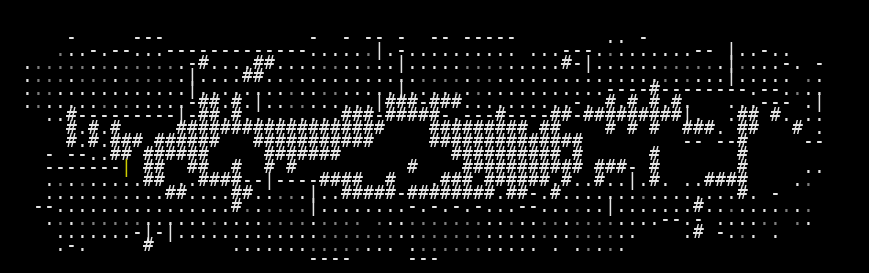
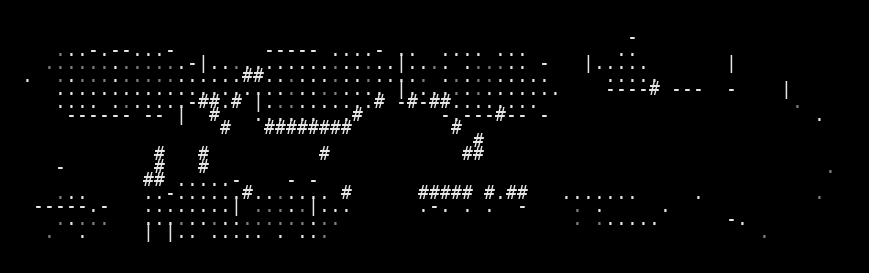
some updates

diff --git a/src/model.py b/src/model.py
@@ -1284,6 +1284,7 @@ def vae_loss(
     H, W = glyph_chars.shape[1], glyph_chars.shape[2]
     fg_mask = (glyph_chars != ord(' '))  # [B, H, W]
     ooc_t = fg_mask.float().unsqueeze(1)  # [B, 1, H, W]
+    masked_num = fg_mask.sum(dim=[1, 2]).clamp(min=1)
     glyph_chars_ce = torch.clamp(glyph_chars - 32, 0, CHAR_DIM - 1)  # CE targets
     
     # Occupancy focal loss
@@ -1295,18 +1296,17 @@ def vae_loss(
     alpha_neg = torch.as_tensor(1.0 - focal_loss_alpha, device=occupy_logits.device, dtype=occupy_logits.dtype)
     alpha_t = torch.where(ooc_hw > 0.5, alpha_pos, alpha_neg)
     focal_weight = alpha_t * (1.0 - p_t).pow(focal_loss_gamma)
-    focal_loss_per_sample = (focal_weight * occ_bce).sum(dim=(1, 2))  # [B]
+    focal_loss_per_sample = (focal_weight * occ_bce).mean(dim=(1, 2)) # [B]
 
     # CE losses (masked by foreground)
     char_loss_per_sample = F.cross_entropy(char_logits, glyph_chars_ce, reduction='none')  # [B, H, W]
     masked_char_loss_per_sample = char_loss_per_sample * fg_mask.float()
     color_loss_per_sample = F.cross_entropy(color_logits, glyph_colors, reduction='none')  # [B, H, W]
     masked_color_loss_per_sample = color_loss_per_sample * fg_mask.float()
-    masked_num = fg_mask.sum(dim=[1, 2]).clamp(min=1)
 
     # Sum over spatial dimensions for each sample
-    masked_char_loss_per_sample = masked_char_loss_per_sample.sum(dim=[1, 2]) / masked_num * H * W  # [B]
-    masked_color_loss_per_sample = masked_color_loss_per_sample.sum(dim=[1, 2]) / masked_num * H * W  # [B]
+    masked_char_loss_per_sample = masked_char_loss_per_sample.sum(dim=[1, 2]) / masked_num  # [B]
+    masked_color_loss_per_sample = masked_color_loss_per_sample.sum(dim=[1, 2]) / masked_num  # [B]
 
     # Average over valid samples only
     raw_losses['occupy'] = focal_loss_per_sample[valid_screen].mean()  # Average over valid samples

diff --git a/vae_analysis/test_recon_comparison.md b/vae_analysis/test_recon_comparison.md
@@ -1,6 +1,6 @@
 # VAE Reconstruction Comparison
 
-_Generated: 2025-08-11T17:48:46_
+_Generated: 2025-08-11T21:11:51_
 
 ## Sample 0
 
@@ -9,8 +9,8 @@ _Generated: 2025-08-11T17:48:46_
 | ![orig 0](images/sample_000_orig.png) | ![recon 0](images/sample_000_recon.png) |
 
 
- Sample 1 Accuracy:   Character accuracy: 0.360 (597/1659 cells)
-   Color accuracy: 0.369 (612/1659 cells)
+ Sample 1 Accuracy:   Character accuracy: 0.869 (1442/1659 cells)
+   Color accuracy: 0.869 (1442/1659 cells)
 
 ================================================================================
 ## Sample 1
@@ -20,8 +20,8 @@ _Generated: 2025-08-11T17:48:46_
 | ![orig 1](images/sample_001_orig.png) | ![recon 1](images/sample_001_recon.png) |
 
 
- Sample 2 Accuracy:   Character accuracy: 0.481 (798/1659 cells)
-   Color accuracy: 0.483 (801/1659 cells)
+ Sample 2 Accuracy:   Character accuracy: 0.724 (1201/1659 cells)
+   Color accuracy: 0.717 (1190/1659 cells)
 
 ================================================================================
 ## Sample 2
@@ -31,8 +31,8 @@ _Generated: 2025-08-11T17:48:46_
 | ![orig 2](images/sample_002_orig.png) | ![recon 2](images/sample_002_recon.png) |
 
 
- Sample 3 Accuracy:   Character accuracy: 0.327 (542/1659 cells)
-   Color accuracy: 0.327 (543/1659 cells)
+ Sample 3 Accuracy:   Character accuracy: 0.976 (1619/1659 cells)
+   Color accuracy: 0.976 (1619/1659 cells)
 
 ================================================================================
 ## Sample 3
@@ -42,8 +42,8 @@ _Generated: 2025-08-11T17:48:46_
 | ![orig 3](images/sample_003_orig.png) | ![recon 3](images/sample_003_recon.png) |
 
 
- Sample 4 Accuracy:   Character accuracy: 0.318 (527/1659 cells)
-   Color accuracy: 0.322 (535/1659 cells)
+ Sample 4 Accuracy:   Character accuracy: 0.943 (1565/1659 cells)
+   Color accuracy: 0.945 (1567/1659 cells)
 
 ================================================================================
 ## Sample 4
@@ -53,8 +53,8 @@ _Generated: 2025-08-11T17:48:46_
 | ![orig 4](images/sample_004_orig.png) | ![recon 4](images/sample_004_recon.png) |
 
 
- Sample 5 Accuracy:   Character accuracy: 0.422 (700/1659 cells)
-   Color accuracy: 0.426 (707/1659 cells)
+ Sample 5 Accuracy:   Character accuracy: 0.822 (1363/1659 cells)
+   Color accuracy: 0.828 (1373/1659 cells)
 
 ================================================================================
 ## Sample 5
@@ -64,8 +64,8 @@ _Generated: 2025-08-11T17:48:46_
 | ![orig 5](images/sample_005_orig.png) | ![recon 5](images/sample_005_recon.png) |
 
 
- Sample 6 Accuracy:   Character accuracy: 0.392 (650/1659 cells)
-   Color accuracy: 0.389 (645/1659 cells)
+ Sample 6 Accuracy:   Character accuracy: 0.753 (1249/1659 cells)
+   Color accuracy: 0.753 (1249/1659 cells)
 
 ================================================================================
 ## Sample 6
@@ -75,8 +75,8 @@ _Generated: 2025-08-11T17:48:46_
 | ![orig 6](images/sample_006_orig.png) | ![recon 6](images/sample_006_recon.png) |
 
 
- Sample 7 Accuracy:   Character accuracy: 0.397 (659/1659 cells)
-   Color accuracy: 0.421 (698/1659 cells)
+ Sample 7 Accuracy:   Character accuracy: 0.797 (1323/1659 cells)
+   Color accuracy: 0.811 (1345/1659 cells)
 
 ================================================================================
 ## Sample 7
@@ -86,8 +86,8 @@ _Generated: 2025-08-11T17:48:46_
 | ![orig 7](images/sample_007_orig.png) | ![recon 7](images/sample_007_recon.png) |
 
 
- Sample 8 Accuracy:   Character accuracy: 0.430 (713/1659 cells)
-   Color accuracy: 0.443 (735/1659 cells)
+ Sample 8 Accuracy:   Character accuracy: 0.715 (1186/1659 cells)
+   Color accuracy: 0.709 (1176/1659 cells)
 
 ================================================================================
 ## Sample 8
@@ -97,8 +97,8 @@ _Generated: 2025-08-11T17:48:46_
 | ![orig 8](images/sample_008_orig.png) | ![recon 8](images/sample_008_recon.png) |
 
 
- Sample 9 Accuracy:   Character accuracy: 0.417 (691/1659 cells)
-   Color accuracy: 0.426 (707/1659 cells)
+ Sample 9 Accuracy:   Character accuracy: 0.886 (1470/1659 cells)
+   Color accuracy: 0.886 (1470/1659 cells)
 
 ================================================================================
 ## Sample 9
@@ -108,8 +108,8 @@ _Generated: 2025-08-11T17:48:46_
 | ![orig 9](images/sample_009_orig.png) | ![recon 9](images/sample_009_recon.png) |
 
 
- Sample 10 Accuracy:   Character accuracy: 0.444 (736/1659 cells)
-   Color accuracy: 0.501 (831/1659 cells)
+ Sample 10 Accuracy:   Character accuracy: 0.603 (1001/1659 cells)
+   Color accuracy: 0.634 (1051/1659 cells)
 
-📈 Overall Reconstruction Statistics:   Average Character Reconstruction Accuracy: 0.399
-   Average Color Reconstruction Accuracy: 0.411
+📈 Overall Reconstruction Statistics:   Average Character Reconstruction Accuracy: 0.809
+   Average Color Reconstruction Accuracy: 0.813

diff --git a/vae_analysis/train_recon_comparison.md b/vae_analysis/train_recon_comparison.md
@@ -1,6 +1,6 @@
 # VAE Reconstruction Comparison
 
-_Generated: 2025-08-11T17:48:45_
+_Generated: 2025-08-11T21:11:49_
 
 ## Sample 0
 
@@ -9,8 +9,8 @@ _Generated: 2025-08-11T17:48:45_
 | ![orig 0](images/sample_000_orig.png) | ![recon 0](images/sample_000_recon.png) |
 
 
- Sample 1 Accuracy:   Character accuracy: 0.479 (794/1659 cells)
-   Color accuracy: 0.515 (855/1659 cells)
+ Sample 1 Accuracy:   Character accuracy: 0.612 (1015/1659 cells)
+   Color accuracy: 0.631 (1047/1659 cells)
 
 ================================================================================
 ## Sample 1
@@ -20,8 +20,8 @@ _Generated: 2025-08-11T17:48:45_
 | ![orig 1](images/sample_001_orig.png) | ![recon 1](images/sample_001_recon.png) |
 
 
- Sample 2 Accuracy:   Character accuracy: 0.532 (882/1659 cells)
-   Color accuracy: 0.539 (895/1659 cells)
+ Sample 2 Accuracy:   Character accuracy: 0.716 (1188/1659 cells)
+   Color accuracy: 0.726 (1205/1659 cells)
 
 ================================================================================
 ## Sample 2
@@ -31,8 +31,8 @@ _Generated: 2025-08-11T17:48:45_
 | ![orig 2](images/sample_002_orig.png) | ![recon 2](images/sample_002_recon.png) |
 
 
- Sample 3 Accuracy:   Character accuracy: 0.332 (550/1659 cells)
-   Color accuracy: 0.333 (552/1659 cells)
+ Sample 3 Accuracy:   Character accuracy: 0.937 (1555/1659 cells)
+   Color accuracy: 0.937 (1555/1659 cells)
 
 ================================================================================
 ## Sample 3
@@ -42,8 +42,8 @@ _Generated: 2025-08-11T17:48:45_
 | ![orig 3](images/sample_003_orig.png) | ![recon 3](images/sample_003_recon.png) |
 
 
- Sample 4 Accuracy:   Character accuracy: 0.498 (827/1659 cells)
-   Color accuracy: 0.514 (853/1659 cells)
+ Sample 4 Accuracy:   Character accuracy: 0.631 (1047/1659 cells)
+   Color accuracy: 0.637 (1057/1659 cells)
 
 ================================================================================
 ## Sample 4
@@ -53,8 +53,8 @@ _Generated: 2025-08-11T17:48:45_
 | ![orig 4](images/sample_004_orig.png) | ![recon 4](images/sample_004_recon.png) |
 
 
- Sample 5 Accuracy:   Character accuracy: 0.475 (788/1659 cells)
-   Color accuracy: 0.500 (829/1659 cells)
+ Sample 5 Accuracy:   Character accuracy: 0.873 (1449/1659 cells)
+   Color accuracy: 0.884 (1466/1659 cells)
 
 ================================================================================
 ## Sample 5
@@ -64,8 +64,8 @@ _Generated: 2025-08-11T17:48:45_
 | ![orig 5](images/sample_005_orig.png) | ![recon 5](images/sample_005_recon.png) |
 
 
- Sample 6 Accuracy:   Character accuracy: 0.485 (804/1659 cells)
-   Color accuracy: 0.519 (861/1659 cells)
+ Sample 6 Accuracy:   Character accuracy: 0.855 (1418/1659 cells)
+   Color accuracy: 0.875 (1452/1659 cells)
 
 ================================================================================
 ## Sample 6
@@ -75,8 +75,8 @@ _Generated: 2025-08-11T17:48:45_
 | ![orig 6](images/sample_006_orig.png) | ![recon 6](images/sample_006_recon.png) |
 
 
- Sample 7 Accuracy:   Character accuracy: 0.467 (775/1659 cells)
-   Color accuracy: 0.512 (850/1659 cells)
+ Sample 7 Accuracy:   Character accuracy: 0.668 (1109/1659 cells)
+   Color accuracy: 0.670 (1112/1659 cells)
 
 ================================================================================
 ## Sample 7
@@ -86,8 +86,8 @@ _Generated: 2025-08-11T17:48:45_
 | ![orig 7](images/sample_007_orig.png) | ![recon 7](images/sample_007_recon.png) |
 
 
- Sample 8 Accuracy:   Character accuracy: 0.466 (773/1659 cells)
-   Color accuracy: 0.480 (796/1659 cells)
+ Sample 8 Accuracy:   Character accuracy: 0.681 (1129/1659 cells)
+   Color accuracy: 0.676 (1121/1659 cells)
 
 ================================================================================
 ## Sample 8
@@ -97,8 +97,8 @@ _Generated: 2025-08-11T17:48:45_
 | ![orig 8](images/sample_008_orig.png) | ![recon 8](images/sample_008_recon.png) |
 
 
- Sample 9 Accuracy:   Character accuracy: 0.515 (855/1659 cells)
-   Color accuracy: 0.558 (925/1659 cells)
+ Sample 9 Accuracy:   Character accuracy: 0.609 (1010/1659 cells)
+   Color accuracy: 0.625 (1037/1659 cells)
 
 ================================================================================
 ## Sample 9
@@ -108,8 +108,8 @@ _Generated: 2025-08-11T17:48:45_
 | ![orig 9](images/sample_009_orig.png) | ![recon 9](images/sample_009_recon.png) |
 
 
- Sample 10 Accuracy:   Character accuracy: 0.443 (735/1659 cells)
-   Color accuracy: 0.480 (797/1659 cells)
+ Sample 10 Accuracy:   Character accuracy: 0.572 (949/1659 cells)
+   Color accuracy: 0.583 (967/1659 cells)
 
-📈 Overall Reconstruction Statistics:   Average Character Reconstruction Accuracy: 0.469
-   Average Color Reconstruction Accuracy: 0.495
+📈 Overall Reconstruction Statistics:   Average Character Reconstruction Accuracy: 0.715
+   Average Color Reconstruction Accuracy: 0.724

diff --git a/README.md b/README.md
@@ -14,11 +14,13 @@ pipx ensurepath
 Then relaunch the terminal and run
 ```bash
 pipx install poetry
-poetry install
+# If poetry command is not found, use the full path:
+/root/.local/bin/poetry install
 ```
 
 In terminal, run
 ```bash
-source $(poetry env info --path)/bin/activate
+# Get the environment path and activate it
+source $(/root/.local/bin/poetry env info --path)/bin/activate
 ```
 to activate the venv created by poetry.
